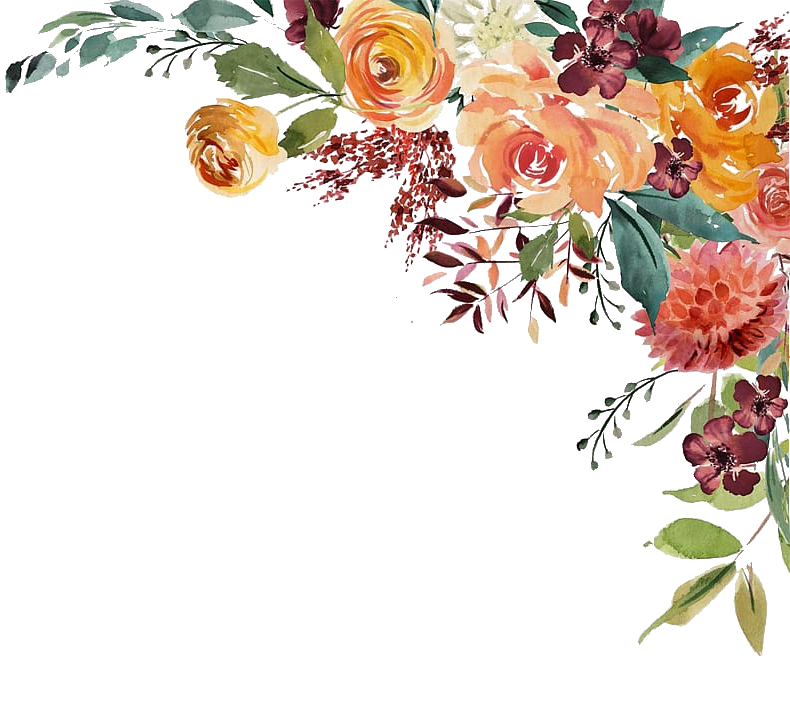
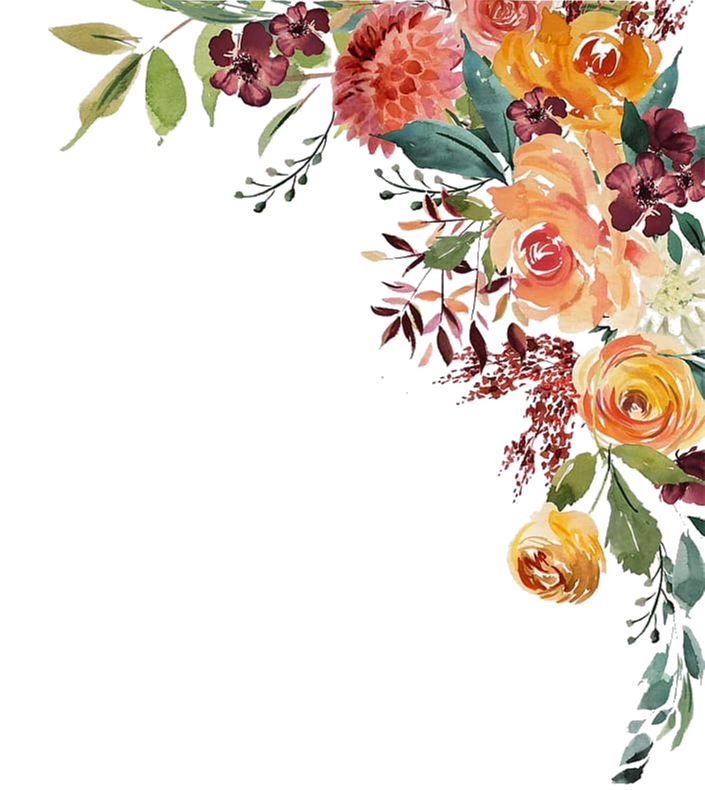
update

diff --git a/index.html b/index.html
@@ -12,39 +12,43 @@
 </head>
 
 <body>
-   <div>
-      <div class="square">
-         <div class="left-image">
-            <h1>
-               PRIMER PLAT
-            </h1>
-            <p>Raviolis de verdures amb salsa de formatge i llagostins.</p>
-            <p>Amanida de pop, pebrot vermell, tomàquet i emulsió dels seus corals.</p>
-      
-            <h1>
-               PEIX
-            </h1>
-            <p>Parpatana de tonyina amb fonoll i poma.</p>
-            <p>Corvall mediterrani amb anacards, olives negres, tomaques cherry confitades i alfabega.</p>
-      
-            <h1>
-               CARN
-            </h1>
-            <p>Espatlla de xai de llet a baixa temperatura amb alls i romaní.</p>
-            <p>Terrina de bou amb peres al vi negre.</p>
-      
-            <h1>
-               POSTRES
-            </h1>
-            <p>Panacota de yogurt i gelé de fruits vermells.</p>
-            <p>La nostra versió de mel i mató.</p>
-      
-            <h1>
-               PASTIS
-            </h1>
-            <p>Semifred de cirera amb logurt.</p>
-            <p>Brownie amb xocolata amb llet.</p>
-      
+   <div class="container">
+      <div class="top-right-image">
+         <div class="top-left-image">
+            <div class="div1">
+               <h1>
+                  MENU A LA CARTE
+               </h1>
+               <h1>
+                  PRIMER PLAT
+               </h1>
+               <p>Raviolis de verdures amb salsa de formatge i llagostins.</p>
+               <p>Amanida de pop, pebrot vermell, tomàquet i emulsió dels seus corals.</p>
+
+               <h1>
+                  PEIX
+               </h1>
+               <p>Parpatana de tonyina amb fonoll i poma.</p>
+               <p>Corvall mediterrani amb anacards, olives negres, tomaques cherry confitades i alfabega.</p>
+
+               <h1>
+                  CARN
+               </h1>
+               <p>Espatlla de xai de llet a baixa temperatura amb alls i romaní.</p>
+               <p>Terrina de bou amb peres al vi negre.</p>
+
+               <h1>
+                  POSTRES
+               </h1>
+               <p>Panacota de yogurt i gelé de fruits vermells.</p>
+               <p>La nostra versió de mel i mató.</p>
+
+               <h1>
+                  PASTIS
+               </h1>
+               <p>Semifred de cirera amb logurt.</p>
+               <p>Brownie amb xocolata amb llet.</p>
+            </div>
          </div>
       </div>
    </div>

diff --git a/css.css b/css.css
@@ -1,7 +1,9 @@
 body {
     display:flex;
     padding-left: 10%;
-    padding-top: 10%;
+    padding-right: 10%;
+    padding-top: 5%;
+    padding-bottom: 5%;
   }
   
   h1 {
@@ -12,7 +14,7 @@ body {
   p {
     color:#a9682e;
     font-family: Marck Script;
-    font-size: 20px;
+    font-size: 15px;
     text-align: center;
   }
 
@@ -20,38 +22,48 @@ body {
     box-sizing: border-box;
   }
   
-  .div1{
+  .container{
+    height:100%;
+    width:100%;
+    position: relative;
+    margin: 1%;
     background-color: #f2ebd9;
-    background-image: "garden-roses-floral-design-watercolor-painting-clip-art-autumn.jpg";
+    
+  }
+
+  .div1{
+    padding-top: 15em;
     border: #c7c6c5;
-    border-radius: 30vh 30vh 0 0;
     border-style: solid;
     border-width: 10px;
     text-align: center;
-    }
-
-    .square {
-        background: url(/toprightborder.png) no-repeat;
-        background-size: 75%;
-        background-position:top right;
-        background-color: #f2ebd9;
-        height: flex;
-        width: flex;
-        padding-left: 1%;
-        padding-right: 1%;
     }
 
     .left-image{
         background: url(/leftborder.png) no-repeat;
         background-size: stretch;
         background-position: left;
-        height: flex;
-        width: flex;
-        transform: translateX(-7%);
+        height: auto;
+        width: auto;
     }
 
     .right-image{
-        background: url(/leftborder.png) no-repeat;
-        width: 20%;
-        float:right;
+        background: url(/rightborder.png) no-repeat;
+        background-size: stretch;
+        background-position: right;
+    }
+
+    .top-left-image{
+        background: url(/topleftborder.png) no-repeat;
+        background-size: 75%;
+        z-index: 9;
+    }
+
+    .top-right-image{
+        position: absolute;
+        background: url(/toprightborder.png) no-repeat;
+        background-size: 75%;
+        background-position: top right;
+        top: 0;
+        left: 0;
     }
